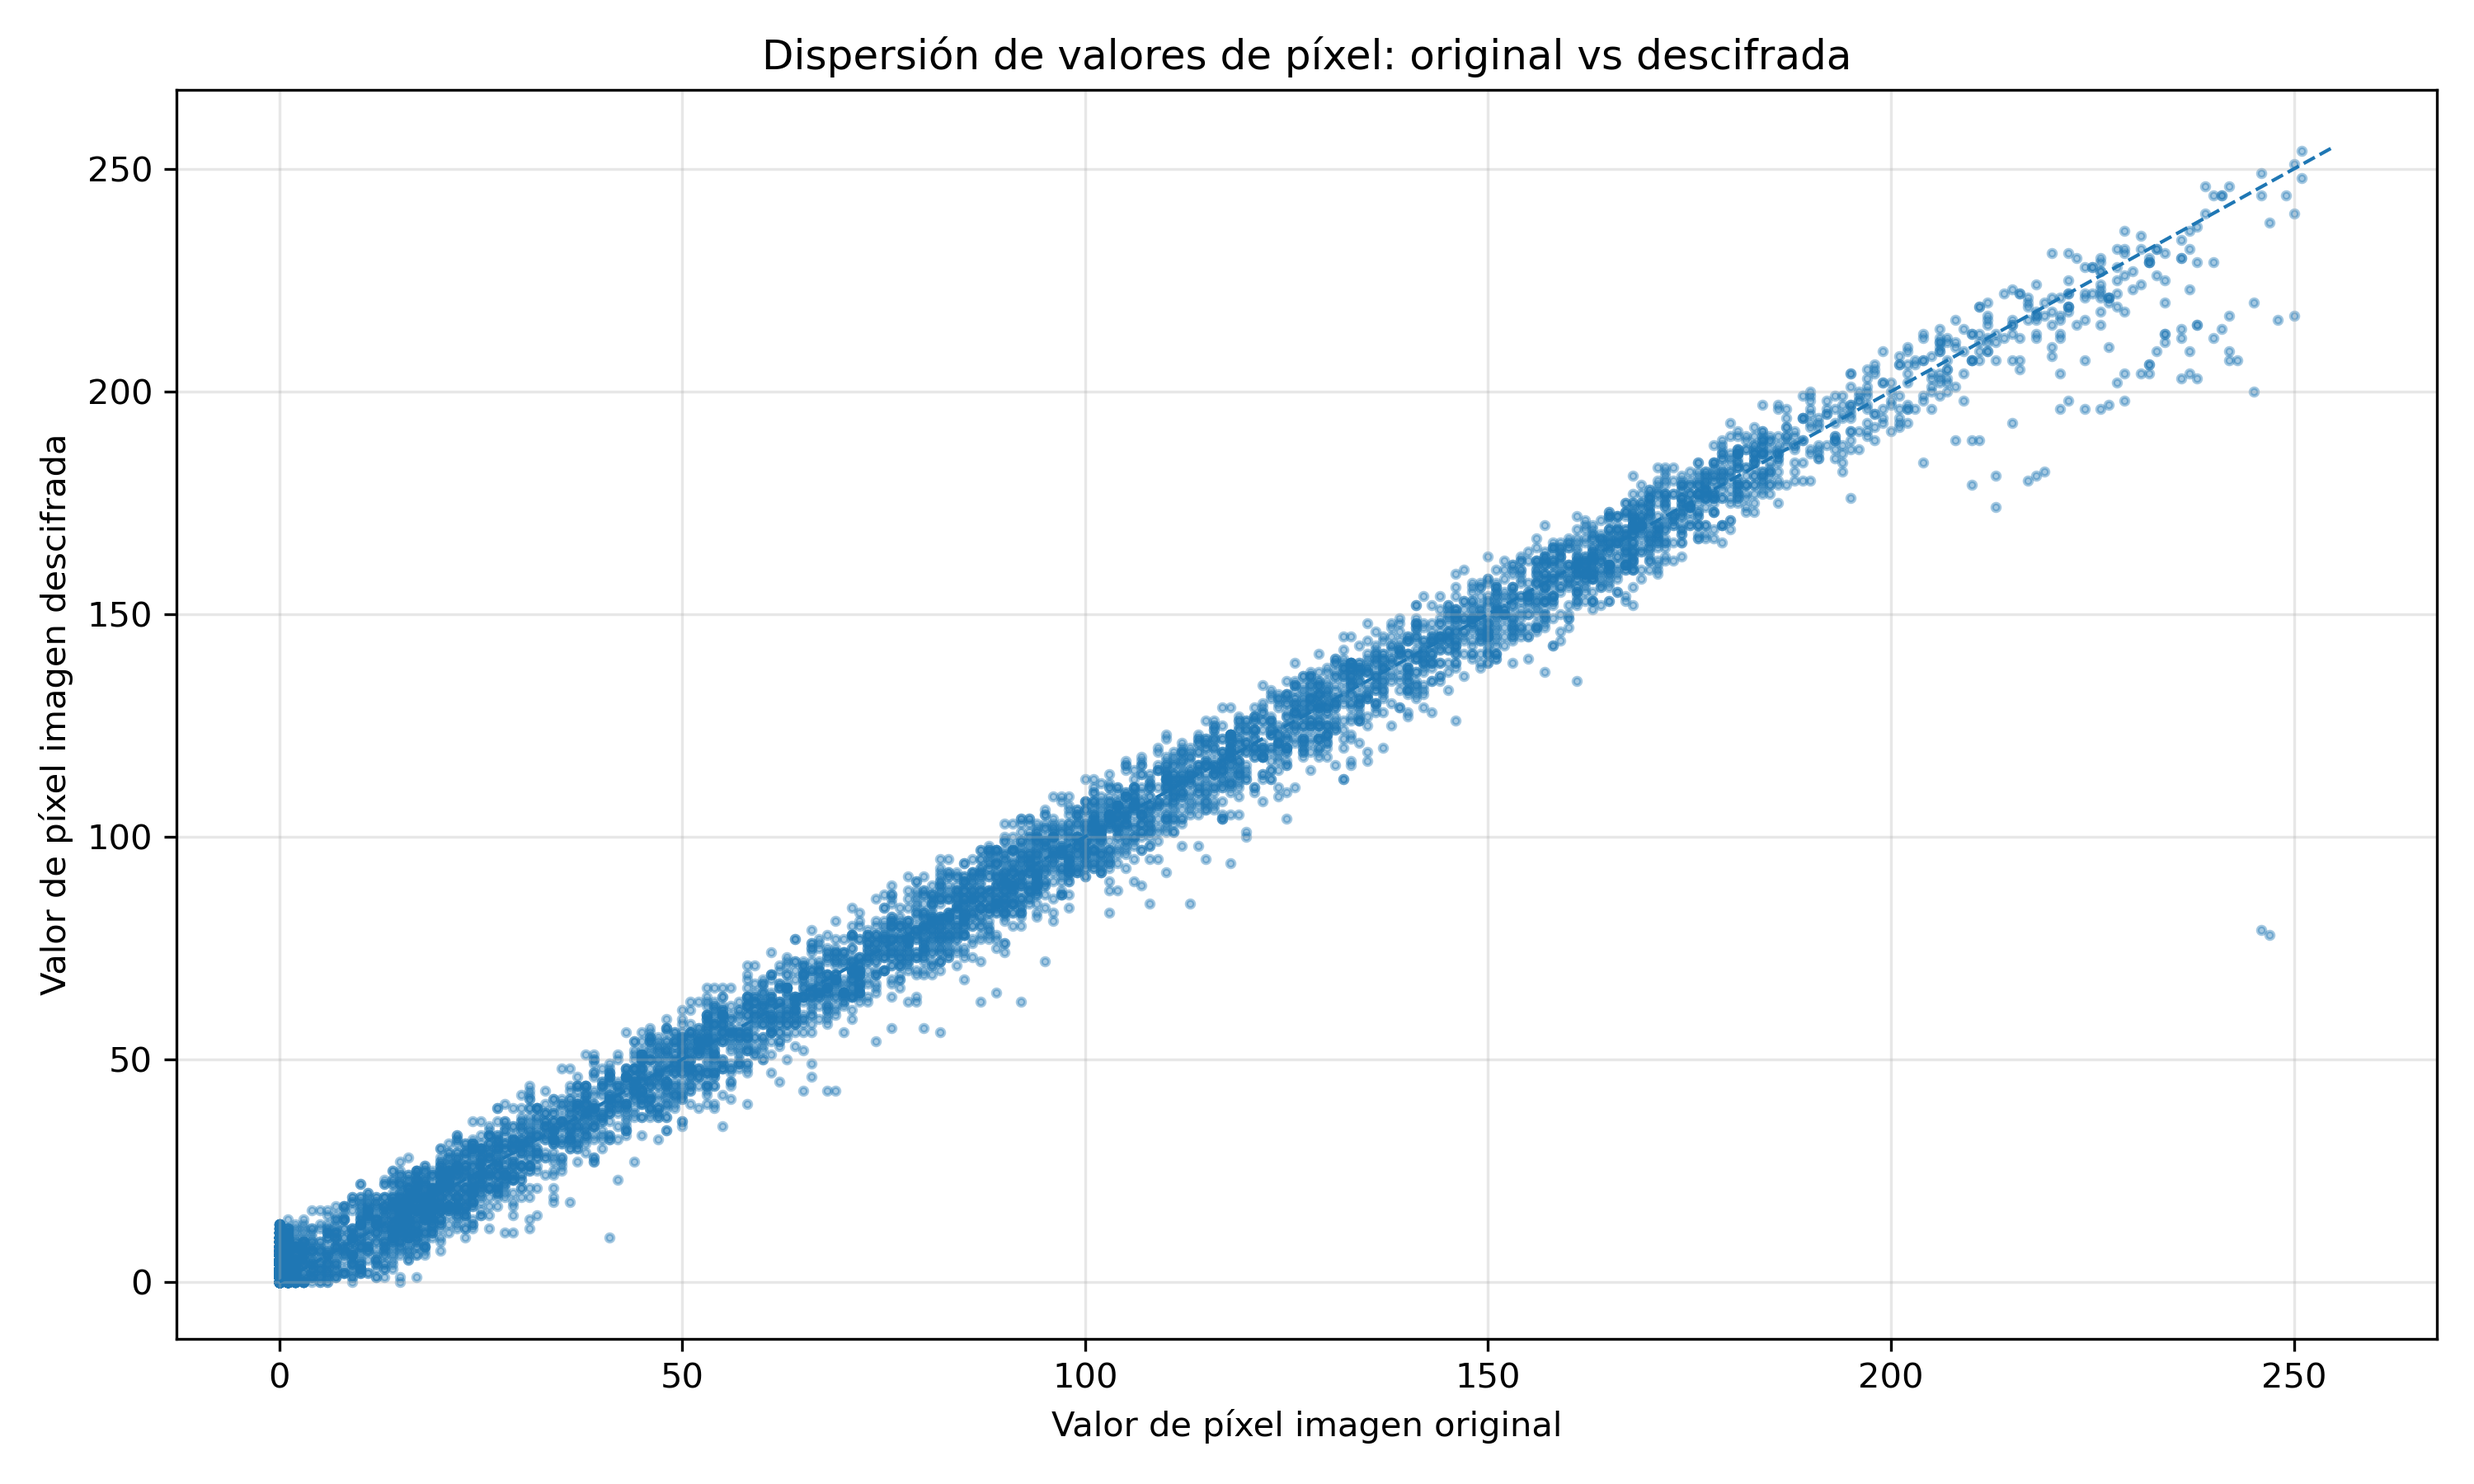
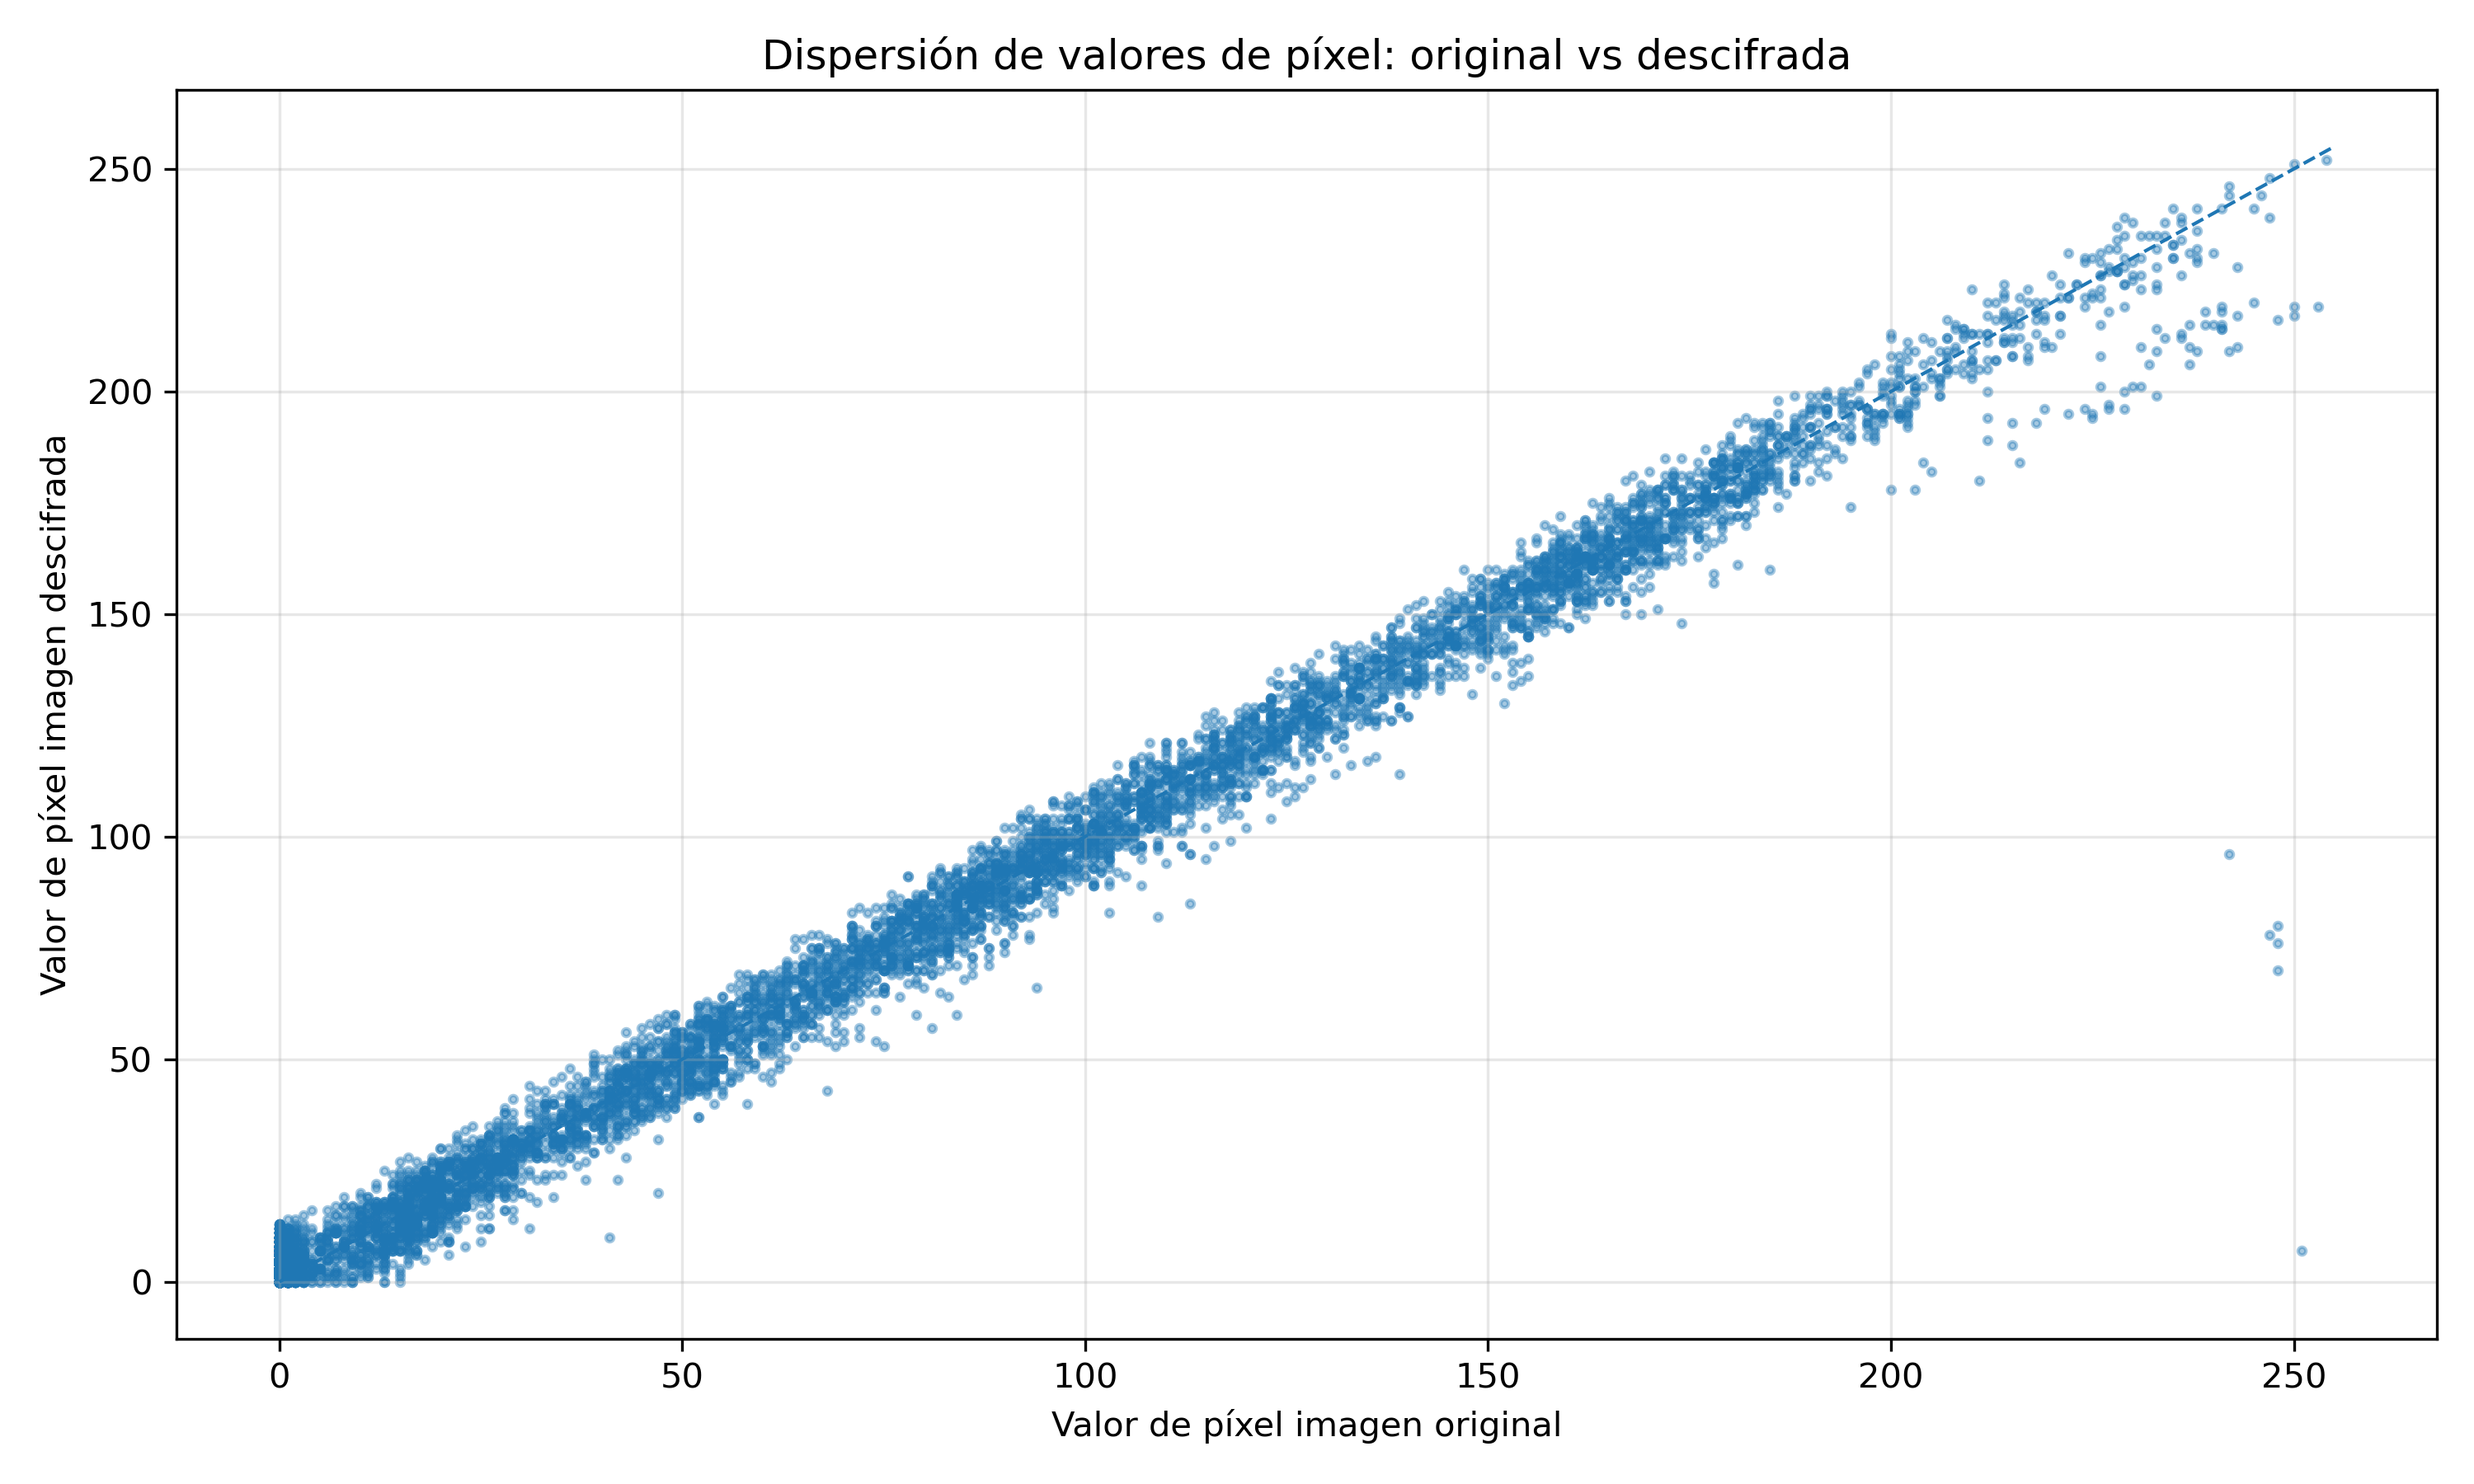
Intentando aponer control PD

Changed region(s): [[0.124, 0.1244, 0.93, 0.8711], [0.806, 0.3111, 0.837, 0.3422]]

diff --git a/Esclavo_TLS KEYSTREAM NoInterpPD.py b/Esclavo_TLS KEYSTREAM NoInterpPD.py
@@ -1,10 +1,3 @@
-"""
-Docstring for Esclavo_TLS KEYSTREAM NoInterp
-Experimento para implementar un sistema de sincronización sin utilizar interpolación
-Se implementan todos los análisis y gráficas correspondientes
-El canal de comunicación es seguro mediante TLS
-Se utiliza hamming para el análisis de sensibilidad a parámetros
-"""
 
 import json 
 import time 
@@ -32,11 +25,13 @@ RECEIVED_DATA = None
 
 # ========== PARAMETROS DE ROSSLER ==========
 H = 0.01
-K = 2.0
+KP = 0.5
+KD = 0.01
 X0 = [1.0, 1.0, 1.0]
 
 # ========== RUTAS Y ARCHIVOS ==========
-CARPETA_RESULTADOS = Path("No_Interpolar")
+CARPETA_RESULTADOS = Path("No_Interpolar_PD")
+CARPETA_RESULTADOS.mkdir(parents=True, exist_ok=True)
 
 # RUTAS SERIES TEMPORALES
 RUTA_SINCRONIZACION_X = CARPETA_RESULTADOS / "sincronizacion_x_resultados.png"
@@ -94,7 +89,7 @@ def rossler_slave(state, y_m, a, b, c, k):
     dzdt = b + z_s * (x_s - c)
     return np.array([dxdt, dydt, dzdt], dtype=float)
 
-def integrar_slave(y_maestro, h, a, b, c, k, x0):
+def integrar_slave_pd(y_maestro, dy_maestro, h, a, b, c, k, x0):
     n = len(y_maestro)
     t = np.linspace(0, (n - 1) * h, n, dtype=np.float64)
 
@@ -104,32 +99,49 @@ def integrar_slave(y_maestro, h, a, b, c, k, x0):
     x[0], y[0], z[0] = x0
 
     for i in range(n - 1):
-        y_m = y_maestro[i]
+        y_m  = y_maestro[i]
+        dy_m = dy_maestro[i]
+
         # k1
         dx1 = -y[i] - z[i]
-        dy1 = x[i] + a * y[i] + k * (y_m - y[i])
+        dy_base1 = x[i] + a * y[i]
         dz1 = b + z[i] * (x[i] - c)
+        dy_s1 = dy_base1
+        u1 = KP * (y_m - y[i]) + KD * (dy_m - dy_s1)
+        dy1 = dy_base1 + u1
+
         # k2
         x2 = x[i] + 0.5 * h * dx1
         y2 = y[i] + 0.5 * h * dy1
         z2 = z[i] + 0.5 * h * dz1
         dx2 = -y2 - z2
-        dy2 = x2 + a * y2 + k * (y_m - y2)
+        dy_base2 = x2 + a * y2
         dz2 = b + z2 * (x2 - c)
+        dy_s2 = dy_base2
+        u2 = KP * (y_m - y2) + KD * (dy_m - dy_s2)
+        dy2 = dy_base2 + u2
+
         # k3
         x3 = x[i] + 0.5 * h * dx2
         y3 = y[i] + 0.5 * h * dy2
         z3 = z[i] + 0.5 * h * dz2
         dx3 = -y3 - z3
-        dy3 = x3 + a * y3 + k * (y_m - y3)
+        dy_base3 = x3 + a * y3
         dz3 = b + z3 * (x3 - c)
-        # k4 (mismo y_m para cero‑orden)
+        dy_s3 = dy_base3
+        u3 = KP * (y_m - y3) + KD * (dy_m - dy_s3)
+        dy3 = dy_base3 + u3
+
+        # k4 (puedes usar y_m y dy_m constantes; cero-orden)
         x4 = x[i] + h * dx3
         y4 = y[i] + h * dy3
         z4 = z[i] + h * dz3
         dx4 = -y4 - z4
-        dy4 = x4 + a * y4 + k * (y_m - y4)
+        dy_base4 = x4 + a * y4
         dz4 = b + z4 * (x4 - c)
+        dy_s4 = dy_base4
+        u4 = KP * (y_m - y4) + KD * (dy_m - dy_s4)
+        dy4 = dy_base4 + u4
 
         x[i+1] = x[i] + (h/6.0) * (dx1 + 2*dx2 + 2*dx3 + dx4)
         y[i+1] = y[i] + (h/6.0) * (dy1 + 2*dy2 + 2*dy3 + dy4)
@@ -587,13 +599,21 @@ def main():
         ancho,
         alto
     ) = extraer_parametros(RECEIVED_KEYS, RECEIVED_DATA)
+    dy_maestro = np.gradient(y_maestro, H)
 
     # ========== PROCESO DE SINCRONIZACIÓN ==========
     print("[SINCRONIZACIÓN] Sincronizando sistema esclavo...")
     t_inicio_sincronizacion = time.perf_counter()
-    x_esclavo, y_esclavo, z_esclavo, t_slave, x_sinc = sincronizacion(
-    y_maestro, times, ROSSLER_PARAMS, time_sinc, keystream, nmax
-    )
+    t_slave, x_slave, y_slave, z_slave = integrar_slave_pd(
+    y_maestro=y_maestro,
+    dy_maestro=dy_maestro,
+    h=H,
+    a=ROSSLER_PARAMS['a'],
+    b=ROSSLER_PARAMS['b'],
+    c=ROSSLER_PARAMS['c'],
+    k=0.0,      # si usas k como acoplamiento adicional; puedes dejar K=0 si sólo quieres el PD
+    x0=X0
+)
     t_fin_sincronizacion = time.perf_counter()
 
     print("[SINCRONIZACIÓN] Proceso de sincronización completado.")
